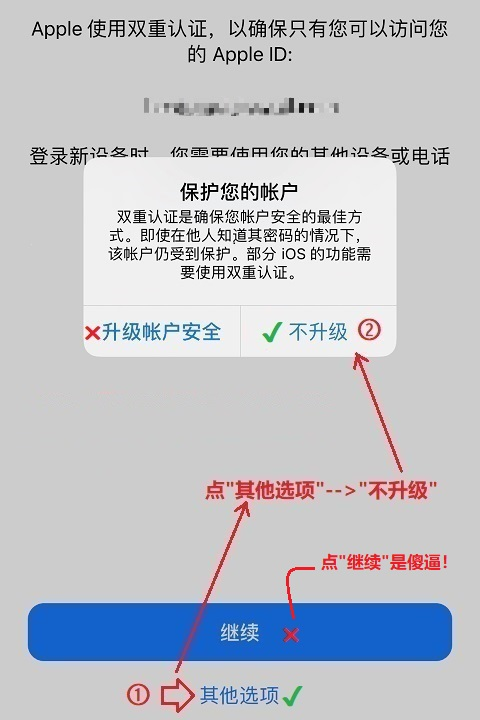
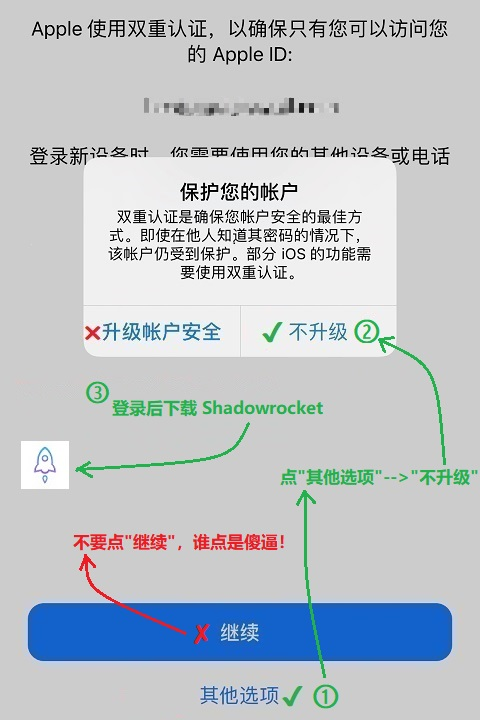
last update

diff --git a/docs/passwd.js b/docs/passwd.js
@@ -33,7 +33,7 @@ function getid() {
 
                         strHtml += "账号: " + data[0].id + "<br><br>";
                         strHtml += "密码: " + data[0].pwd + "<br><br>";  
-			strHtml += "登录后在应用商店搜索下载 Shadowrocket"; 
+			strHtml += '登录账号时，不要开启"双重认证"'; 
 
 			$jsontip.html(strHtml);
 		}
